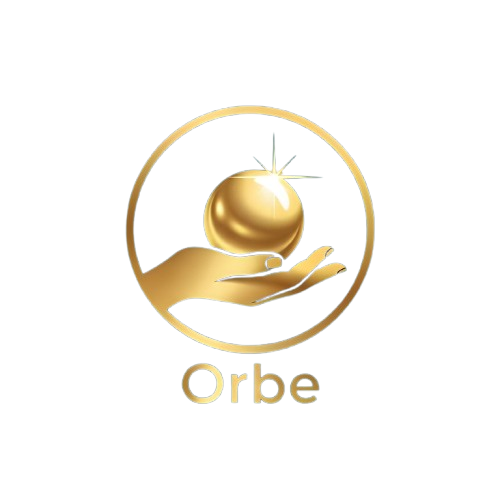
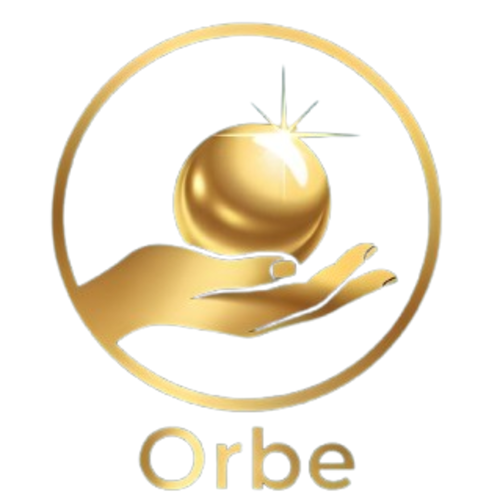
mejoras

Changed region(s): [[0.09, 0.03, 0.9, 0.99]]

diff --git a/src/app/pages/dashboard/home/home.component.html b/src/app/pages/dashboard/home/home.component.html
@@ -77,8 +77,8 @@
 <ng-template #section2>
   <div class="grid md:grid-cols-2 grid-cols-1 gap-2">
     <div class="card-body">
-      <h5 class="title">Solicitudes de servicios {{ currentYear }}</h5>
       @if(series.length > 0) {
+      <h6 class="title">Solicitudes de servicios {{ currentYear }}</h6>
       <app-circular-chart [series]="series" [labels]="labels" />
       }
     </div>
@@ -92,9 +92,9 @@
 <ng-template #section3>
   <div class="xl:flex xl:gap-x-4 gap-x-2 grid grid-cols-1 gap-y-2">
     @if (summaryMonthly.length > 0) {
-    <div class="card xl:w-full">
+    <div class="card xl:w-full border bordered">
       <div class="card-body">
-        <h5 class="title">Resumen de solicitudes {{ currentYear }}</h5>
+        <h6 class="title">Resumen de solicitudes {{ currentYear }}</h6>
         <app-column-chart [series]="summaryMonthly" />
       </div>
     </div>
@@ -104,10 +104,10 @@
 
 <ng-template #section4>
   <div>
-    <h5>Top 10</h5>
+    <h6>Top 10</h6>
     <div class="flex overflow-x-auto gap-2 relative p-2">
       @for (item of topRatedAdvisors; track $index) {
-      <div class="card sm:card-side w-72 min-h-16 ps-2">
+      <div class="card sm:card-side w-72 min-h-16 ps-2 border bordered">
         <app-avatar [src]="item.avatar" size="lg" class="m-auto" />
         <div class="card-body justify-between flex flex-row">
           <div class="flex flex-col">
@@ -118,7 +118,7 @@
           </div>
           <span>
             <app-icon icon="star-filled" theme="warning" />
-            <small class=""> {{ item.averageRating }}/5 </small>
+            <small class=""> {{ item.averageRating }} </small>
           </span>
         </div>
       </div>
@@ -128,9 +128,9 @@
 </ng-template>
 
 <ng-template #topAsesors>
-  <div class="card grow">
+  <div class="card grow border bordered">
     <div class="card-body">
-      <h5 class="title">Top asesores</h5>
+      <h6 class="title">Top asesores</h6>
       <ul class="divide-base-content/25 divide-y *:py-3 mt-2 divide-secondary">
         @for (user of topRatedAdvisors; track $index) {
         <li>
@@ -153,7 +153,7 @@
               <div class="action max-sm:mt-1 flex flex-col items-center gap-1">
                 <span class="flex gap-1">
                   <app-icon icon="star-filled" theme="warning" size="3" />
-                  <small>{{ user.averageRating }}/5</small>
+                  <small>{{ user.averageRating }}</small>
                 </span>
               </div>
             </div>
@@ -166,9 +166,9 @@
 </ng-template>
 
 <ng-template #newRegistrations>
-  <div class="card grow">
+  <div class="card grow border bordered">
     <div class="card-body">
-      <h5 class="title">Nuevos registros</h5>
+      <h6 class="title">Nuevos registros</h6>
       <ul class="divide-base-content/25 divide-y *:py-3 mt-2">
         @for (user of newUsers; track $index) {
         <li>

diff --git a/src/app/pages/landing/landing.component.html b/src/app/pages/landing/landing.component.html
@@ -1,6 +1,6 @@
 <app-navbar />
 <main>
-  <ng-container [ngTemplateOutlet]="globalTeam" ></ng-container>
+  <ng-container [ngTemplateOutlet]="globalTeam"></ng-container>
   <ng-container
     [ngTemplateOutlet]="pasos"
     [ngTemplateOutletContext]="{ steps: steps }"
@@ -28,7 +28,6 @@
       </div>
     </div>
   </section>
-  
 </ng-template>
 
 <ng-template #pasos let-steps="steps">
@@ -41,7 +40,10 @@
             class="relative inline-block before:block before:absolute before:-bottom-2 before:left-2 before:w-16 before:h-16 before:rounded-md before:rotate-[33.75deg] mb-6 before:bg-gradient-to-b before:from-green-100 before:to-transparent hover:before:bg-green-100"
           >
             <span
-              class="icon-[tabler--{{ step.icon }}] size-10 text-primary"
+              class="size-10 text-primary"
+              [class.icon-[tabler--user]]="$index === 0"
+              [class.icon-[tabler--world-search]]="$index === 1"
+              [class.icon-[tabler--message-user]]="$index === 2"
             ></span>
           </div>
           <h6>{{ step.title }}</h6>
@@ -158,17 +160,17 @@
           <div class="advisor_card_body">
             <div class="flex justify-between">
               <div class="flex gap-1 mb-2">
-              @for (star of [1,1,1,1,1,1]; track $index) {
+                @for (star of [1,1,1,1,1,1]; track $index) {
                 <span
-                class="text-secondary text-xs"
-                [ngClass]="{
+                  class="text-secondary text-xs"
+                  [ngClass]="{
                   'icon-[tabler--star-filled]': $index < math.round(advisor.averageRating),
                   'icon-[tabler--star]': $index > math.round(advisor.averageRating),
                 }"
-              ></span>
-               }
+                ></span>
+                }
               </div>
-              <span class="text-xs">{{advisor.averageRating}}</span>
+              <span class="text-xs">{{ advisor.averageRating }}</span>
             </div>
             <p class="text-gray-500 line-clamp-4 flex-1 text-sm">
               {{ advisor.advisorDetail.description }}

diff --git a/src/app/pages/dashboard/dashboard.component.html b/src/app/pages/dashboard/dashboard.component.html
@@ -1,10 +1,3 @@
-<!-- <span class="icon-[tabler--brand-wechat] size-5"></span>
-<span class="icon-[tabler--users] size-5"></span>
-<span class="icon-[tabler--report-money] size-5"></span>
-<span class="icon-[tabler--category] size-5"></span>
-<span class="icon-[tabler--plus] size-5"></span>
-<span class="icon-[tabler--layout-dashboard] size-5"></span> -->
-
 <button
   title="Menu"
   type="button"
@@ -24,10 +17,10 @@
     role="dialog"
     tabindex="-1"
   >
-    <div class="drawer-header">
-      <div class="flex items-center gap-3">
+    <div class="drawer-header p-4">
+      <div class="flex items-center justify-center gap-3">
         <img
-          src="logotipo-transparent.png"
+          src="imagotipo-transparent.png"
           alt="logo"
           srcset=""
           class="w-1/2"
@@ -65,7 +58,7 @@
                 routerLinkActive="router-link-active"
                 [routerLinkActiveOptions]="{ exact: true }"
               >
-                <span class="icon-[tabler--message] size-5"></span>
+                <span class="icon-[tabler--{{ child.icon }}] size-6"></span>
                 {{ child.title }}
               </a>
             </li>
@@ -85,12 +78,10 @@
         </li>
         }
       </ul>
-      <app-button
-        text="Cerrar sesion"
-        theme="error"
-        width="block"
-        (clickHandler)="signout()"
-      />
+      <button type="button" class="btn btn-error" (click)="signout()">
+        Cerrar sesión
+        <span class="icon-[tabler--logout] size-5"></span>
+      </button>
     </div>
   </aside>
   <div class="main-panel">

diff --git a/src/app/pages/dashboard/categories/categories.component.ts b/src/app/pages/dashboard/categories/categories.component.ts
@@ -50,7 +50,7 @@ export class CategoriesComponent implements OnInit {
   onChangeTable(e: any): void {
     this.queryParams['search'] = e.term;
     this.pagination = e.pagination();
-    this.getData()
+    this.dispatch();
   }
 
   onSubmit(): void {
@@ -135,9 +135,15 @@ export class CategoriesComponent implements OnInit {
   }
 
   private async getData() {
+    this.#store.selectOnce(CategorySelectors.list).subscribe(data => {
+      (!data) && this.dispatch();
+      this.categories.set(data!.results);
+      this.metadata.set(data!.metadata);
+    });
+  }
+
+  private async dispatch() {
     await firstValueFrom(this.#store.dispatch(new CategoryAction.List(this.queryParams, this.pagination)));
-    const { results, metadata } = this.#store.selectSnapshot(CategorySelectors.list)!;
-    this.categories.set(results);
-    this.metadata.set(metadata);
+    this.getData();
   }
 }

diff --git a/src/app/pages/dashboard/chat/chat.component.ts b/src/app/pages/dashboard/chat/chat.component.ts
@@ -39,7 +39,8 @@ export class ChatComponent {
   onChangeTable(e: any): void {
     this.queryParams['search'] = e.term;
     this.pagination = e.pagination();
-    this._getData()
+    console.log(this.pagination)
+    this.dispatch();
   }
 
   async openModal(id: string) {
@@ -55,9 +56,15 @@ export class ChatComponent {
   }
 
   private async _getData() {
+    this.#store.selectOnce(ChatSelectors.roomList).subscribe((data) => {
+      (!data) && this.dispatch();
+      this.rooms = data!.results;
+      this.metadata.set(data!.metadata);
+    });
+  }
+
+  private async dispatch() {
     await firstValueFrom(this.#store.dispatch(new ChatActions.List(this.queryParams, this.pagination)));
-    const { results, metadata } = this.#store.selectSnapshot(ChatSelectors.roomList)!;
-    this.rooms = results;
-    this.metadata.set(metadata);
+    this._getData();
   }
 }

diff --git a/src/app/pages/landing/landing.component.ts b/src/app/pages/landing/landing.component.ts
@@ -27,17 +27,14 @@ export class LandingComponent implements OnInit {
   steps: any[] = [
     {
       title: 'Registrate',
-      icon: 'edit',
       description: 'Descarga la app y registrate con nosotros de forma fácil y rápido.'
     },
     {
       title: 'Busca',
-      icon: 'world-search',
       description: 'Busca entre nuestros asesores quien más se acerque a tus necesidades.'
     },
     {
       title: 'Consulta',
-      icon: 'message-user',
       description: 'Solicita tus consultas por chat o por llamada, lo que más prefieras.'
     },
   ];

diff --git a/src/app/pages/dashboard/chat/store/chat.state.ts b/src/app/pages/dashboard/chat/store/chat.state.ts
@@ -29,14 +29,13 @@ export class ChatState {
   ) {
     const state = ctx.getState();
     payload ??= {};
-    return state.rooms ??
-      this.#chatService
-        .rooms(payload, pagination)
-        .pipe(
-          tap(
-            (rooms: ResponseInterface<RoomInterface>) => ctx.patchState({ rooms })
-          )
-        );
+    return this.#chatService
+      .rooms(payload, pagination)
+      .pipe(
+        tap(
+          (rooms: ResponseInterface<RoomInterface>) => ctx.patchState({ rooms })
+        )
+      );
   }
 
   @Action(ChatActions.Get)

diff --git a/src/app/shared/components/dashboard-footer/dashboard-footer.component.html b/src/app/shared/components/dashboard-footer/dashboard-footer.component.html
@@ -1,6 +1,7 @@
 <div
   class="flex justify-between font-light text-sm px-6 w-full py-4 border-t border-primary"
 >
-  <p class="font-medium text-primary text-lg">{{ appName }}</p>
+  <!-- <p class="font-medium text-primary text-lg">{{ appName }}</p> -->
+  <img src="logotipo-transparent.png" alt="logo" class="w-24" />
   <p>&copy; {{ year }}, Desarrollado por Kervin González</p>
 </div>

diff --git a/src/app/shared/components/footer/footer.component.html b/src/app/shared/components/footer/footer.component.html
@@ -1,9 +1,7 @@
 <div class="footer">
   <div class="orbe-container">
     <div class="grid grid-cols-1 md:grid-cols-5">
-      <div>
-        <img src="logotipo-transparent.png" alt="" class="w-32" />
-      </div>
+      <img src="isotipo-transparen.png" alt="" class="w-20" />
       <div>
         <p class="footer_title">Sobre Orbe</p>
         <ul>

diff --git a/src/styles.scss b/src/styles.scss
@@ -35,7 +35,7 @@ html, body{
 }
 
 .stats{
-  @apply md:inline-grid inline;
+  @apply md:inline-grid inline shadow border border-gray-200;
   .stat{
     @apply px-3 py-2 gap-0 md:px-6 md:py-4 md:gap-2;
   }
@@ -47,4 +47,8 @@ html, body{
 
 .orbe-container {
   @apply max-w-6xl mx-auto;
+}
+
+.bordered{
+  @apply border border-gray-200;
 }

diff --git a/src/app/pages/dashboard/categories/categories.component.html b/src/app/pages/dashboard/categories/categories.component.html
@@ -1,10 +1,5 @@
 <div class="w-full flex justify-end mb-6">
-  <app-button
-    text="Crear categoría"
-    icon="plus"
-    [outline]="true"
-    (clickHandler)="add()"
-  />
+  <app-button text="Crear categoría" [outline]="true" (clickHandler)="add()" />
 </div>
 <app-table-container
   [metadata]="metadata()!"

diff --git a/src/app/shared/components/dashbar/dashbar.component.html b/src/app/shared/components/dashbar/dashbar.component.html
@@ -1,5 +1,7 @@
 <div class="w-full flex justify-between border-b md:pb-0.5 px-6">
-  <h4 class="font-normal text-primary">{{ title.getTitle() }}</h4>
+  <h5 class="font-semibold tracking-widest text-primary">
+    {{ title.getTitle() }}
+  </h5>
   <div>
     <app-avatar [src]="user.avatar" />
   </div>
